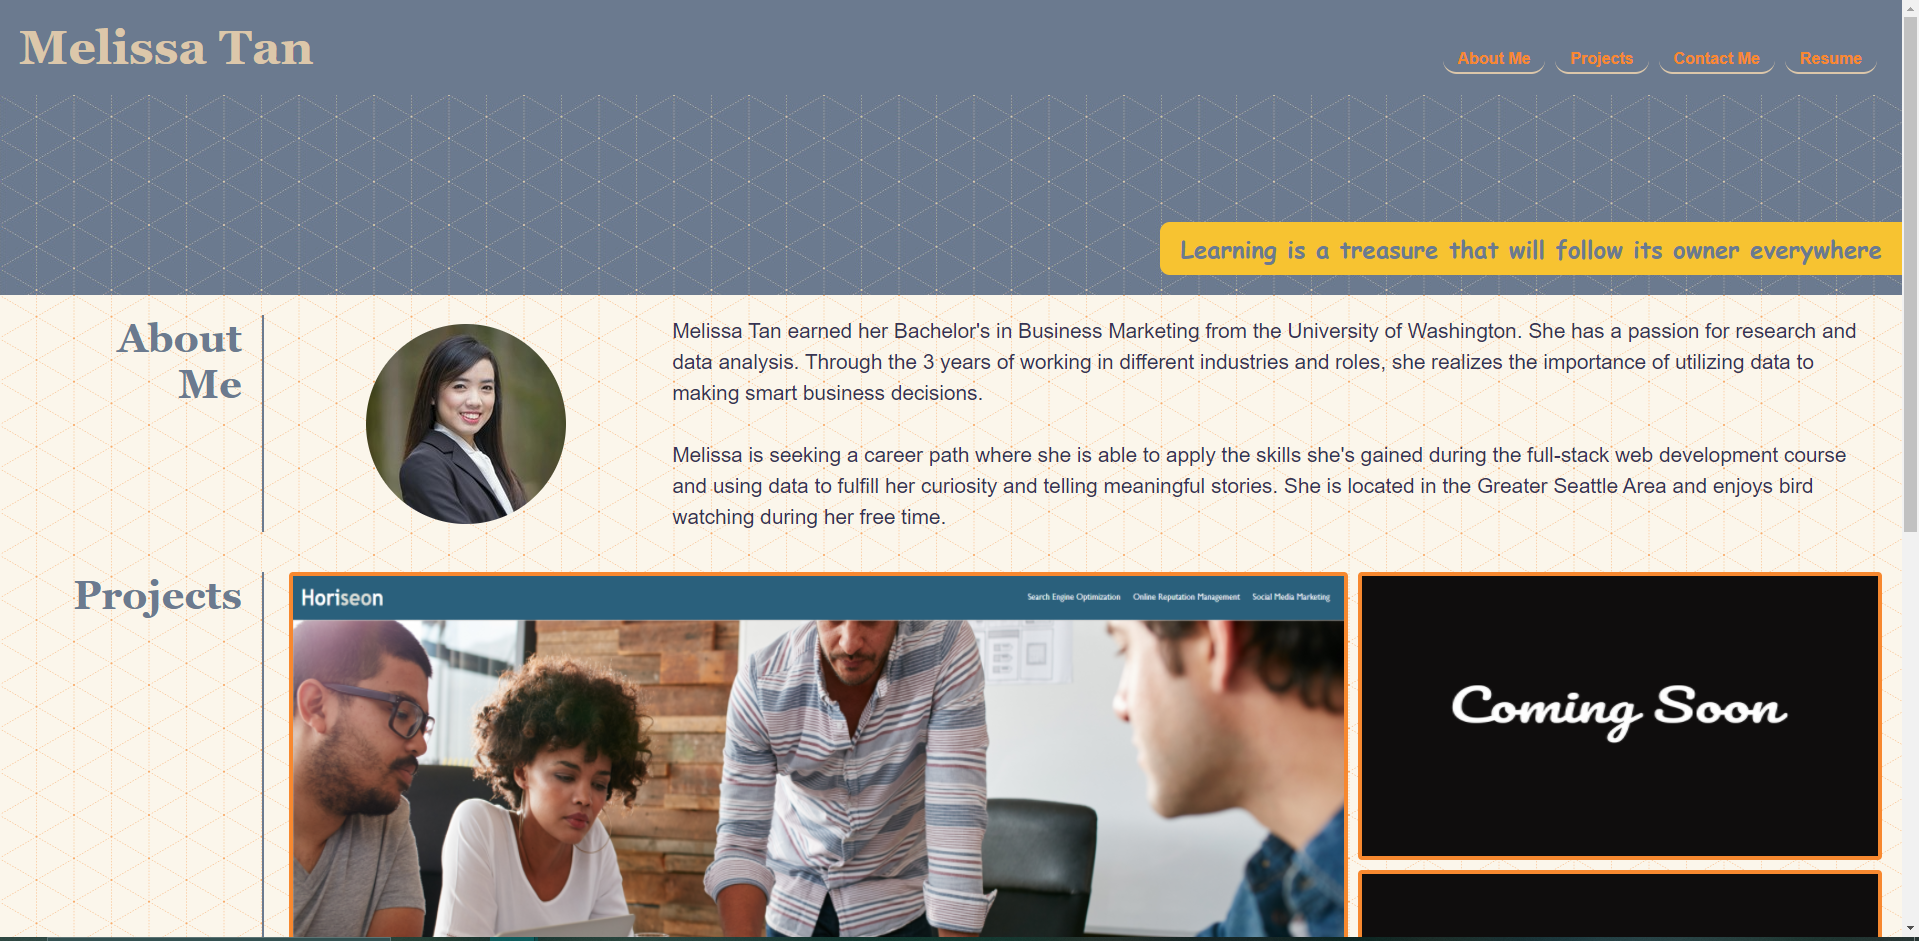
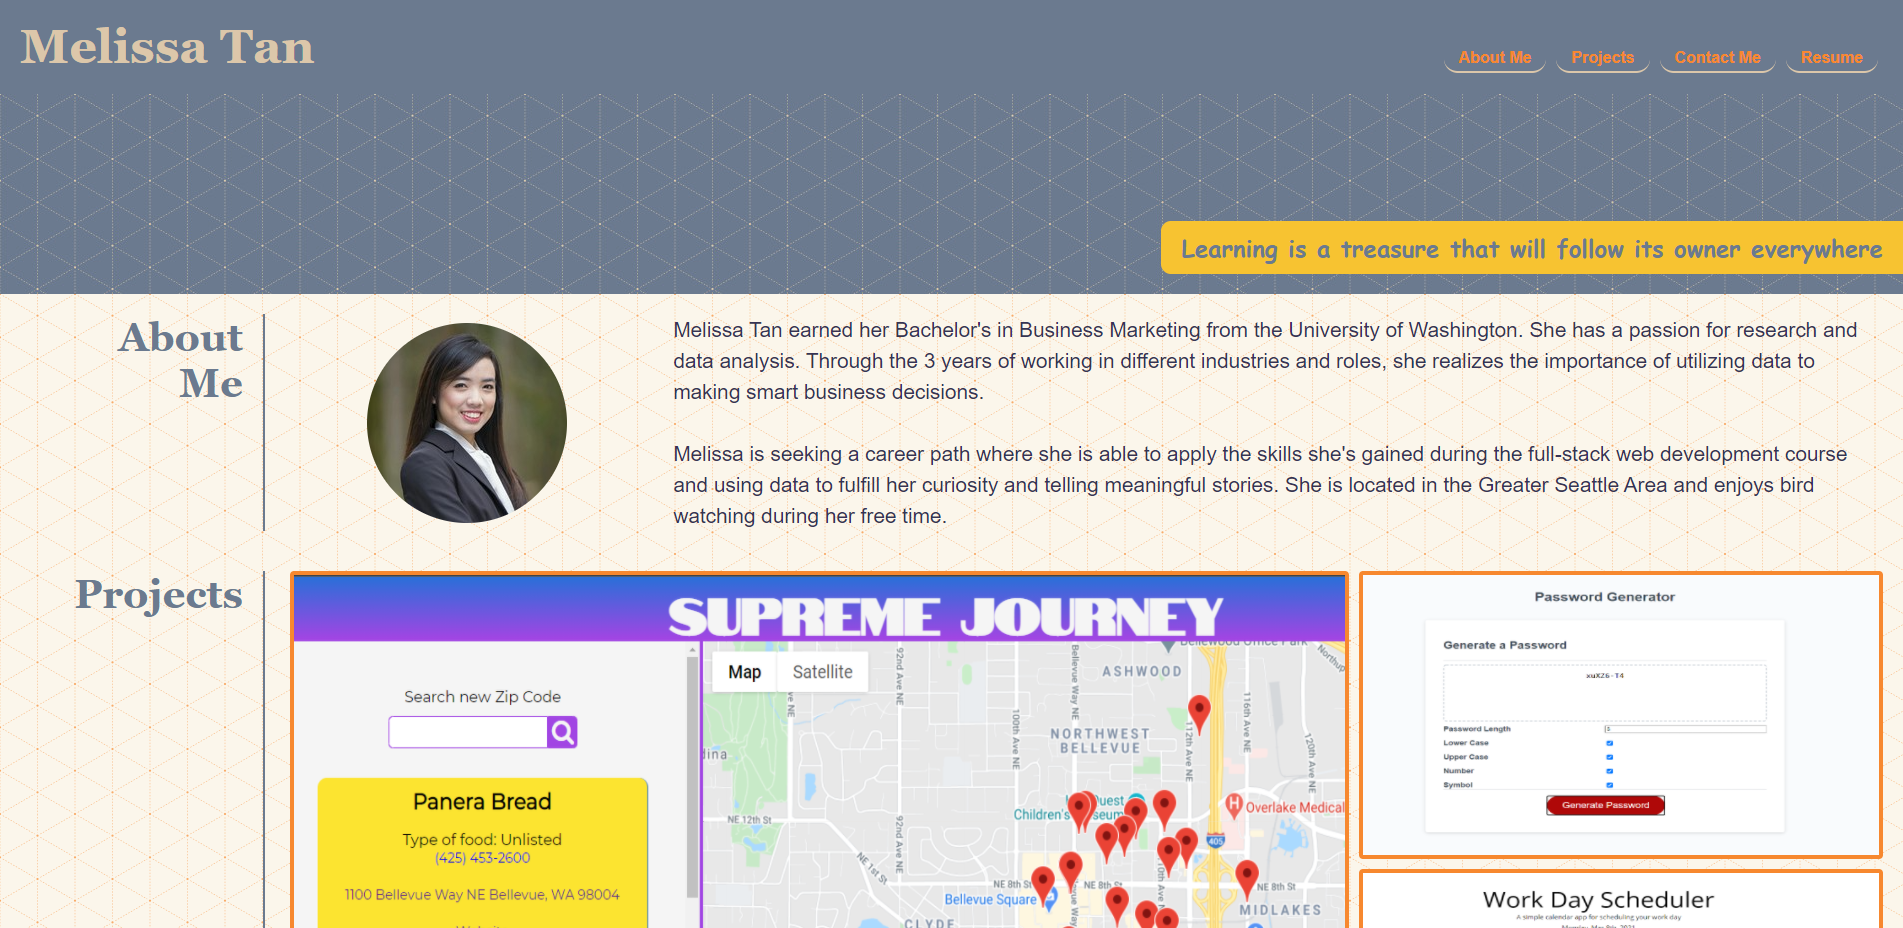
Edited readme and added new screenshot of portfolio

diff --git a/README.md b/README.md
@@ -1,19 +1,23 @@
 # Personal Portfolio
-This is a repository for my personal portfolio to showcase my skills and talents to potential employers. It contains samples of my work This will be used to help me in my job search process. Projects will be updated as I progress in the bootcamp and complete assignments and projects.
+This is a repository for my personal portfolio to showcase my skills and talents to potential employers. It contains samples of my work This will be used to help me in my job search process. This is the second version of my portfolio. These are the updates that I have made since the first version.
+Here is the first version of my [portfolio](https://melissa-tan.github.io/portfolio-melissa-tan/)
+
+- Added projects to the cards
+- Made minor CSS adjustments
+- Added font awesome icons to the contact me section
 
 ## Submission Links
 
-Repository URL: [https://github.com/melissa-tan/portfolio-melissa-tan](https://github.com/melissa-tan/portfolio-melissa-tan)
+Repository URL: [https://github.com/melissa-tan/portfolio-updated](https://github.com/melissa-tan/portfolio-updated)
 
-Website URL: [https://melissa-tan.github.io/portfolio-melissa-tan/](https://melissa-tan.github.io/portfolio-melissa-tan/)
+Website URL: [https://melissa-tan.github.io/portfolio-updated/](https://melissa-tan.github.io/portfolio-updated/)
 
 ## Screenshot
 The below image shows the first version of my portfolio
-![Screenshot of website v.1 of portfolio](./assets/images/portfolio.png)
+![Screenshot of website v.2 of portfolio](./assets/images/portfolio.png)
 
 ### Submission Requirements
-- Name, a recent photo, links to sections (about me, projects, contact me)
-- Navigation linked to sections
-- Applications with titles and links
-- Main application is larger than others
-- Responsive layout that adapts to the screensize
+- Updated portfolio
+- Updated GitHub profile
+- Updated Resume
+- Updated Linkedin
